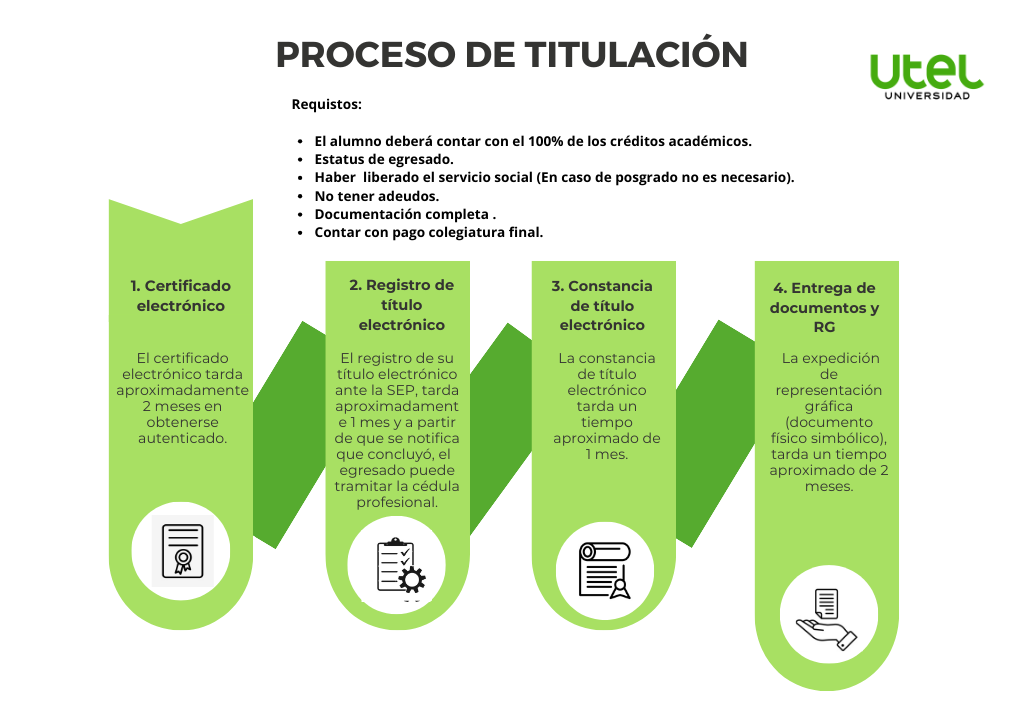
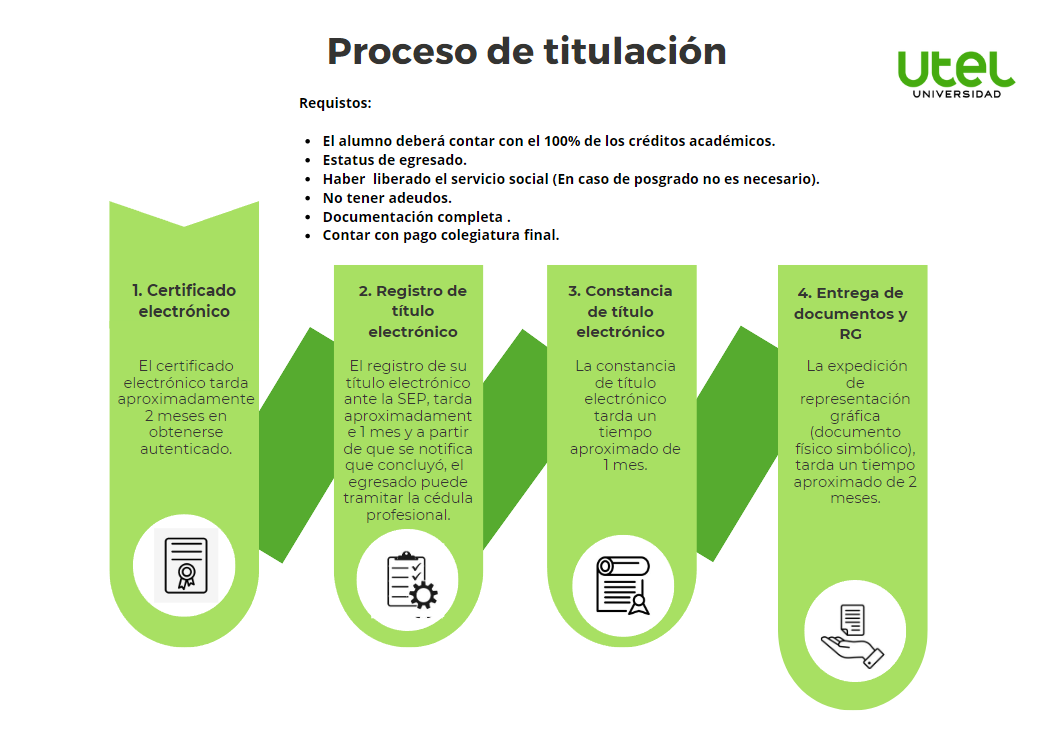
Coirec

diff --git a/src/public/js/informacion_f.js b/src/public/js/informacion_f.js
@@ -73,7 +73,7 @@ const infoTitulacion = [
     4.- Expedición de representación gráfica (documento físico simbólico): Tarda un tiempo aproximado de 2 meses. </br></br>
     
     El alumno deberá contar con el 100% de los créditos académicos y estar en estatus de egresado, haber concluido y liberado 
-    el servicio social (En caso de maestría no es necesario) no tener adeudos, documentación completa y contar con pago colegiatura final. </br></br>
+    el servicio social (En caso de maestría no es necesario) no tener saldos pendientes, documentación completa y contar con pago colegiatura final. </br></br>
 
 
     `, 
@@ -300,7 +300,7 @@ const bloqueImagenTexto = [
     idoh: 'offcanvasBottomLabelEjemplo-cer-mae',
     Titulo:'Certificado total de Maestría',
     Texto: `
-    <strong class="py-3 px-3"> Características de la certificación</strong>
+    <strong class="py-3 px-3"> Características del certificado</strong>
     
     Es un documento oficial que se otorga al alumno que haya acreditado el 100% de los créditos del plan de estudios y que requiere ser autenticado por la Secretaría de Educación Pública.</br>   </br>   
 
@@ -325,7 +325,7 @@ const bloqueImagenTexto = [
     idoh: 'offcanvasBottomLabelEjemplo-cer-doc',
     Titulo:'Certificado total de Doctorado',
     Texto: `
-    <strong class="py-3 px-3"> Características de la certificación</strong>
+    <strong class="py-3 px-3"> Características del certificado</strong>
     Es un documento oficial que se otorga al alumno que haya acreditado el 100% de los créditos del plan de estudios y que requiere ser autenticado por la Secretaría de Educación Pública.</br>   </br>   
 
     El documento contiene:</br>   
@@ -350,8 +350,7 @@ const bloqueImagenTexto = [
     idoh: 'offcanvasBottomLabelEjemplo-tit-lic',
     Titulo:'Titulación Licenciatura',
     Texto: `
-    <strong class="py-3 px-3"> Características de la titulación</strong>
-    Características del título electrónico <br/><br/>
+    <strong class="py-3 px-3"> Características del titulo electrónico</strong>
 
     Documento que se otorga al alumno que haya acreditado el 100% de los créditos del plan de estudios de Licenciatura y que requiere ser autenticado por la Secretaría de Educación Pública.<br/><br/>
 
@@ -371,7 +370,7 @@ const bloqueImagenTexto = [
     idoh: 'offcanvasBottomLabelEjemplo-tit-mae',
     Titulo:'Titulación Maestria',
     Texto: `
-    <strong class="py-3 px-3"> Características de la titulación</strong>
+    <strong class="py-3 px-3"> Características del titulo electrónico</strong>
     Documento que se otorga al estudiante que haya acreditado el 100% de los créditos del plan de estudios de Licenciatura y que 
     requiere ser autenticado por la Secretaría de Educación Pública. </br></br>
     Un título profesional es un documento que avala que has cursado estudios de 
@@ -389,7 +388,7 @@ const bloqueImagenTexto = [
     idoh: 'offcanvasBottomLabelEjemplo-tit-doc',
     Titulo:'Titulación Doctorado',
     Texto: `
-    <strong class="py-3 px-3"> Características de la titulación</strong>
+    <strong class="py-3 px-3"> Características del titulo electrónico</strong>
     Documento que se otorga al estudiante que haya acreditado el 100% de los créditos del plan de estudios de Licenciatura y que 
     requiere ser autenticado por la Secretaría de Educación Pública. </br></br>
     Un título profesional es un documento que avala que has cursado estudios de 

diff --git a/src/public/js/funciones_r.js b/src/public/js/funciones_r.js
@@ -24,7 +24,7 @@ avisoRojo.forEach((cadaLi, i) => {
         avisoRojo[i].innerHTML = `                              
         <div class="border-3 card card-importante mx-3 mb-5 justify-content-center ">
           <div class="card-body">
-            <p class="card-text" style="text-align: justify;">
+            <p class="card-text" style="text-align: justify; text-align: justify;">
             ${solicitarTexto()}
             </p>
           </div>
@@ -165,7 +165,7 @@ ImagenYTexto.forEach((cadaLi, i) => {
                     </div>
                     
                     <!--Texto descripción-->
-                    <div class="col card border border-0">
+                    <div class="col card border border-0" style="text-align: justify;">
 
                     ${solicitarTexto()}
 
@@ -332,7 +332,7 @@ ImagenTextoCarrusel.forEach((cadaLi, i) => {
                         </div>
                         <!--Proceso y botones-->
                         <div class="col card border border-0">
-                          <p>
+                          <p style="text-align: justify;">
                           ${Texto()}
                           <p>
 
@@ -391,7 +391,7 @@ tituloYTexto.forEach((cadaLi, i) => {
             <div class="border border-0 card mt-1">
             <div class="card-body">
               <h5 class="card-title" >${solicitarTitulo()}</h5>
-              <p class="card-text">
+              <p class="card-text" style="text-align: justify;">
               ${solicitarTexto()}
               </p>
             </div>
@@ -448,9 +448,9 @@ procesoTitNacional.forEach((cadaLi, i) => {
 
         <div class="row py-3">
           
-          <a class="Botonmanual col py-3 px-3" href="docs/manualtit/manual-tit-nacional.pdf" target="_blank" >INICIO DE TRAMITE FLOKZU</a>
-          <a class="Botonmanual col py-3 px-3" href="docs/manualtit/manual-tit-latam.pdf" target="_blank">INICIO DE TRAMITE FLOKZU LATAM</a>
-          <a class="Botonmanual col py-3 px-3" href="docs/manualtit/cedula.pdf" target="_blank">TRAMITE DE CÉDULA PROFESIONAL</a>
+          <a class="Botonmanual col py-3 px-3" href="docs/manualtit/manual-tit-nacional.pdf" target="_blank" >Inicio de trámite flokzu</a>
+          <a class="Botonmanual col py-3 px-3" href="docs/manualtit/manual-tit-latam.pdf" target="_blank">Inicio de trámite flokzu LATAM</a>
+          <a class="Botonmanual col py-3 px-3" href="docs/manualtit/cedula.pdf" target="_blank">Trámite de cédula profesional</a>
         </div>
         `           
     }
